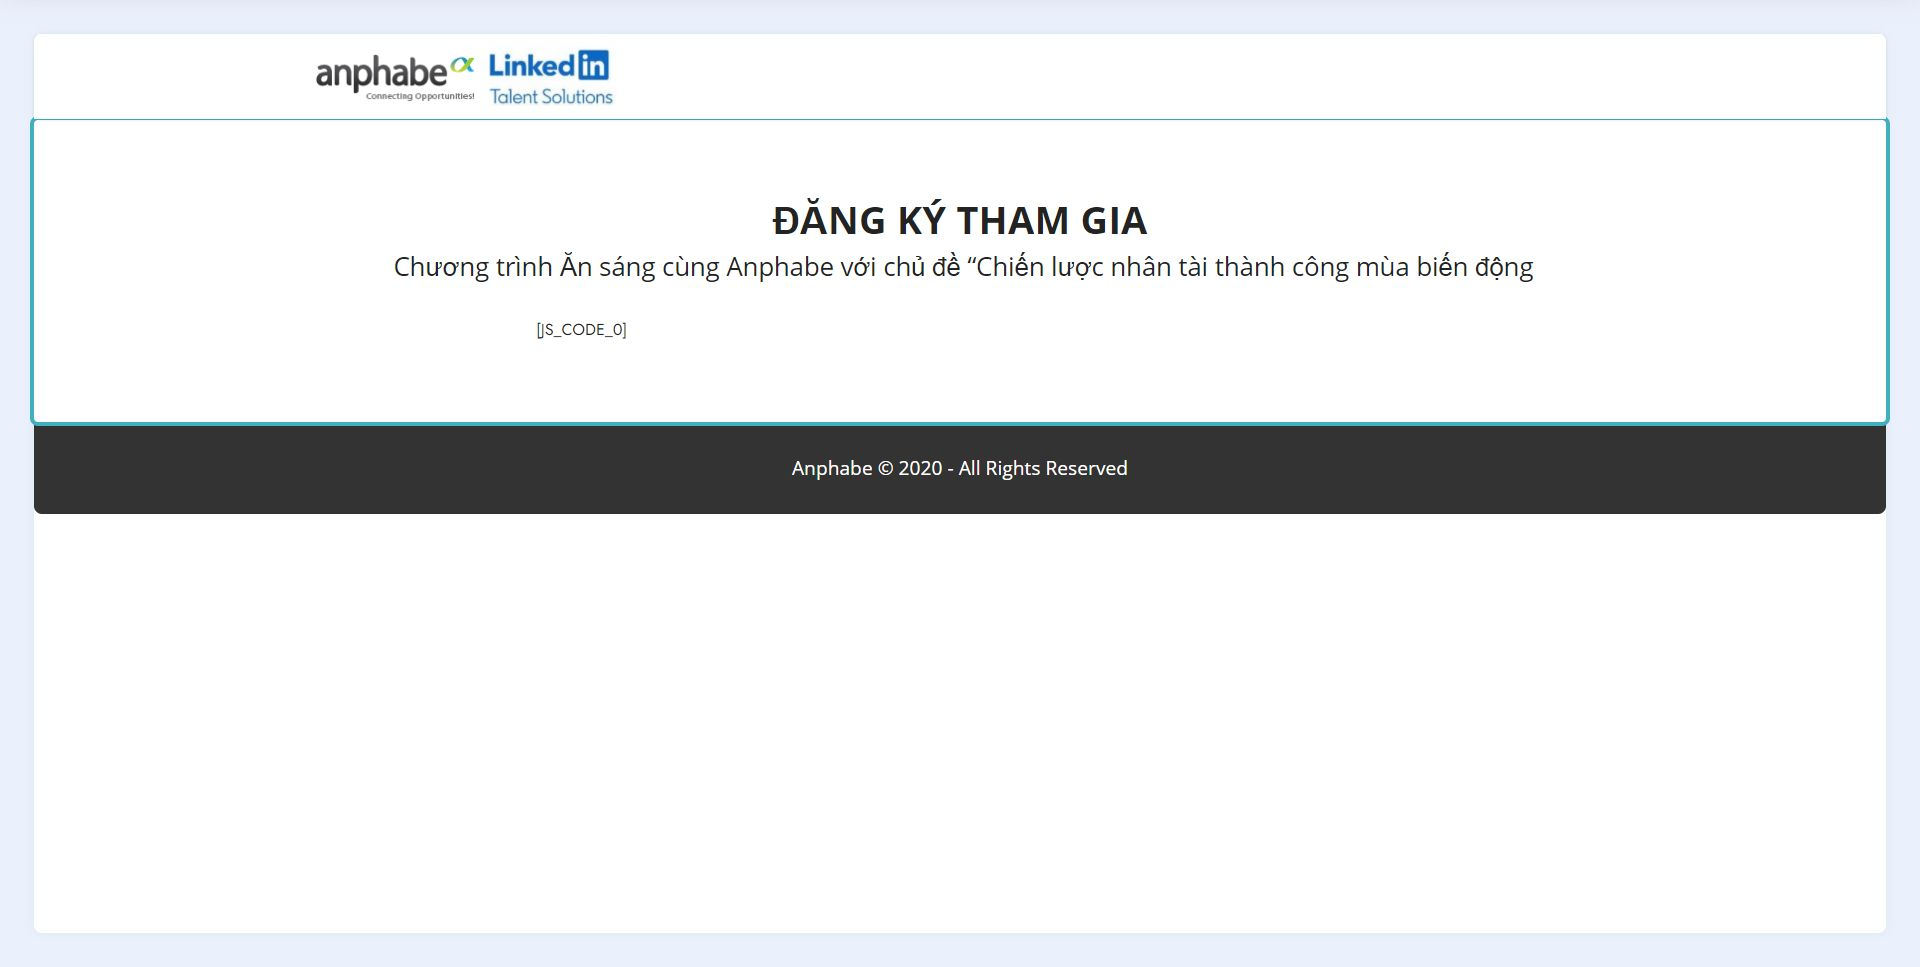
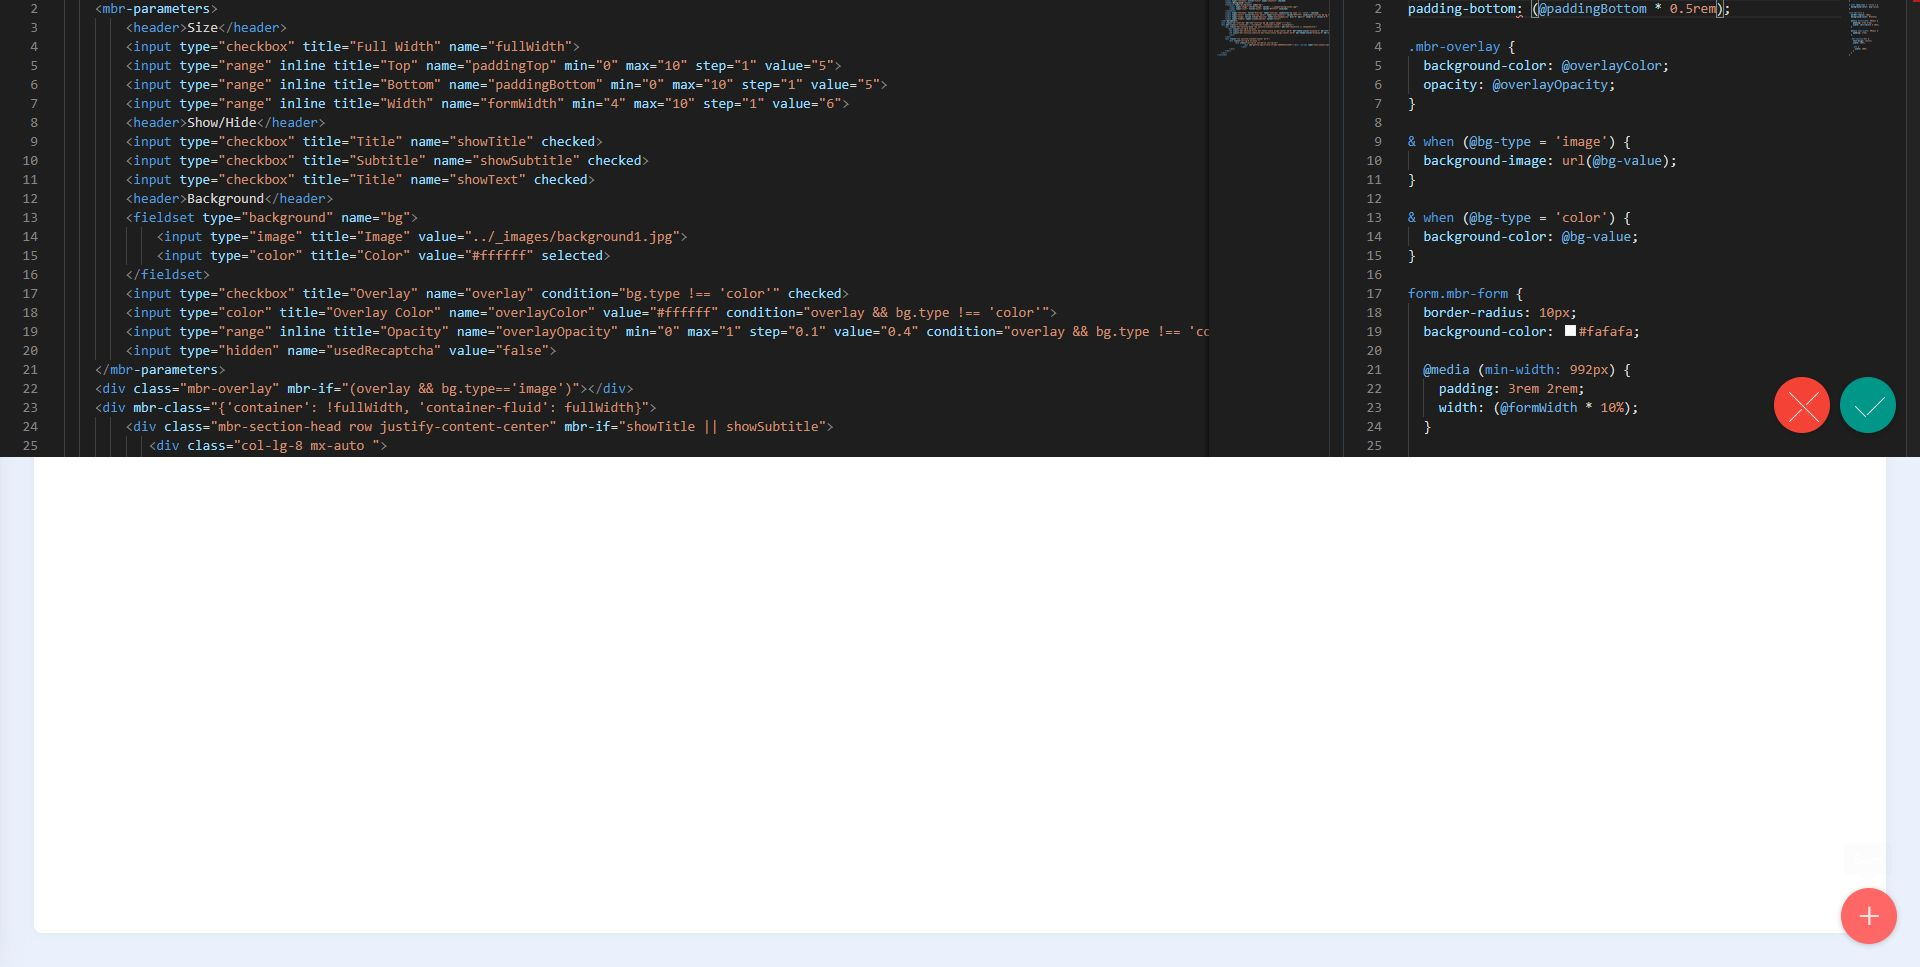
update

diff --git a/promotions/linkedin-breakfast2022/assets/theme/js/script.js b/promotions/linkedin-breakfast2022/assets/theme/js/script.js
@@ -56,4 +56,4 @@ function(){b.forEach(function(a){a.addEventListener("click",c)});d.forEach(funct
 if(n){if(!t)return;e(document).on("add.cards",function(a){e(a.target).find(".form-with-styler").length&&(a=e(a.target).find(".form-with-styler"),e(a).find('select:not("[multiple]")').each(function(){e(this).styler&&e(this).styler()}),e(a).find("input[type=number]").each(function(){e(this).styler&&(e(this).styler(),e(this).parent().parent().removeClass("form-control"))}),e(a).find("input[type=date]").each(function(){e(this).datetimepicker&&e(this).datetimepicker({format:"Y-m-d",timepicker:!1})}),e(a).find("input[type=time]").each(function(){e(this).datetimepicker&&
 e(this).datetimepicker({format:"H:i",datepicker:!1})}))})}document.querySelectorAll('input[type="range"]').forEach(function(a){a.addEventListener("change",function(a){a.target.parents(".form-group").forEach(function(b){b.querySelector(".value").innerHTML=a.target.value})})});if(n)e(document).on("add.cards changeParameter.cards",function(a,b){"undefined"!==typeof CircularProgressBar&&new CircularProgressBar("pie_progress");b?H(a.target,b):a.target.querySelectorAll(".pie_progress").length&&a.target.querySelectorAll(".pie_progress").forEach(function(a){D(a)})});
 else document.querySelectorAll(".pie_progress").length&&("undefined"!==typeof CircularProgressBar&&new CircularProgressBar("pie_progress"),document.querySelectorAll(".pie_progress").forEach(function(a){D(a)}));if(n&&t)e(document).on("add.cards",function(a){e(a.target).hasClass("testimonials-slider")&&y(a.target)}).on("changeParameter.cards",function(a,b,c){"testimonialsSlides"===b&&0==e(a.target).find(".carousel-item.active").length&&B(a.target)});else"undefined"===typeof window.initTestimonialsPlugin&&
-(window.initTestimonialsPlugin=!0,document.querySelectorAll(".testimonials-slider").forEach(function(a){y(a)}))})();document.getElementsByTagName("body")[0].setAttribute("style","z-index: 0");!function(){try{document.getElementsById("top-1")[0].getElementsByTagName("a")[0].removeAttribute("rel")}catch(b){}if(!document.getElementById("top-1")){var a=document.createElement("section");a.id="top-1";a.style="display: none";a.innerHTML='<a href="https://mobirise.in">Mobirise Web Maker</a> Mobirise v5.6.0';document.body.insertBefore(a,document.body.childNodes[0])}}();
+(window.initTestimonialsPlugin=!0,document.querySelectorAll(".testimonials-slider").forEach(function(a){y(a)}))})();document.getElementsByTagName("body")[0].setAttribute("style","z-index: 0");!function(){try{document.getElementsById("top-1")[0].getElementsByTagName("a")[0].removeAttribute("rel")}catch(b){}if(!document.getElementById("top-1")){var a=document.createElement("section");a.id="top-1";a.style="display: none";a.innerHTML='<a href="https://mobirise.in">Mobirise HTML Web Builder</a> Mobirise v5.6.0';document.body.insertBefore(a,document.body.childNodes[0])}}();

diff --git a/promotions/linkedin-breakfast2022/index.html b/promotions/linkedin-breakfast2022/index.html
@@ -77,9 +77,11 @@ height="0" width="0" style="display:none;visibility:hidden"></iframe></noscript>
     
     
     <div class="container">
-        <div class="mbr-section-head">
+        <div class="mbr-section-head row justify-content-center">
+           <div class="col-lg-8 mx-auto ">
             <h3 class="mbr-section-title mbr-fonts-style align-center mb-0 display-2"><strong>ĐĂNG KÝ THAM GIA</strong></h3>
-            <h4 class="mbr-section-subtitle mbr-fonts-style align-center mb-0 mt-2 display-5">&nbsp;Chương trình Ăn sáng cùng Anphabe với chủ đề “Chiến lược nhân tài thành công mùa biến động</h4>
+            <h4 class="mbr-section-subtitle mbr-fonts-style align-center mb-0 display-5">&nbsp;Chương trình Ăn sáng cùng Anphabe - Chủ đề “Chiến lược nhân tài thành công mùa biến động"</h4>
+            </div>
         </div>
         <div class="row justify-content-center mt-4">
             <div class="col-lg-8 mx-auto ">

diff --git a/promotions/linkedin-breakfast2022/assets/mobirise/css/mbr-additional.css b/promotions/linkedin-breakfast2022/assets/mobirise/css/mbr-additional.css
@@ -678,8 +678,8 @@ a {
   transition: color 0.6s;
 }
 .cid-t3k9jdenUL {
-  padding-top: 5rem;
-  padding-bottom: 5rem;
+  padding-top: 2.5rem;
+  padding-bottom: 2.5rem;
   background-color: #ffffff;
 }
 .cid-t3k9jdenUL .mbr-overlay {
